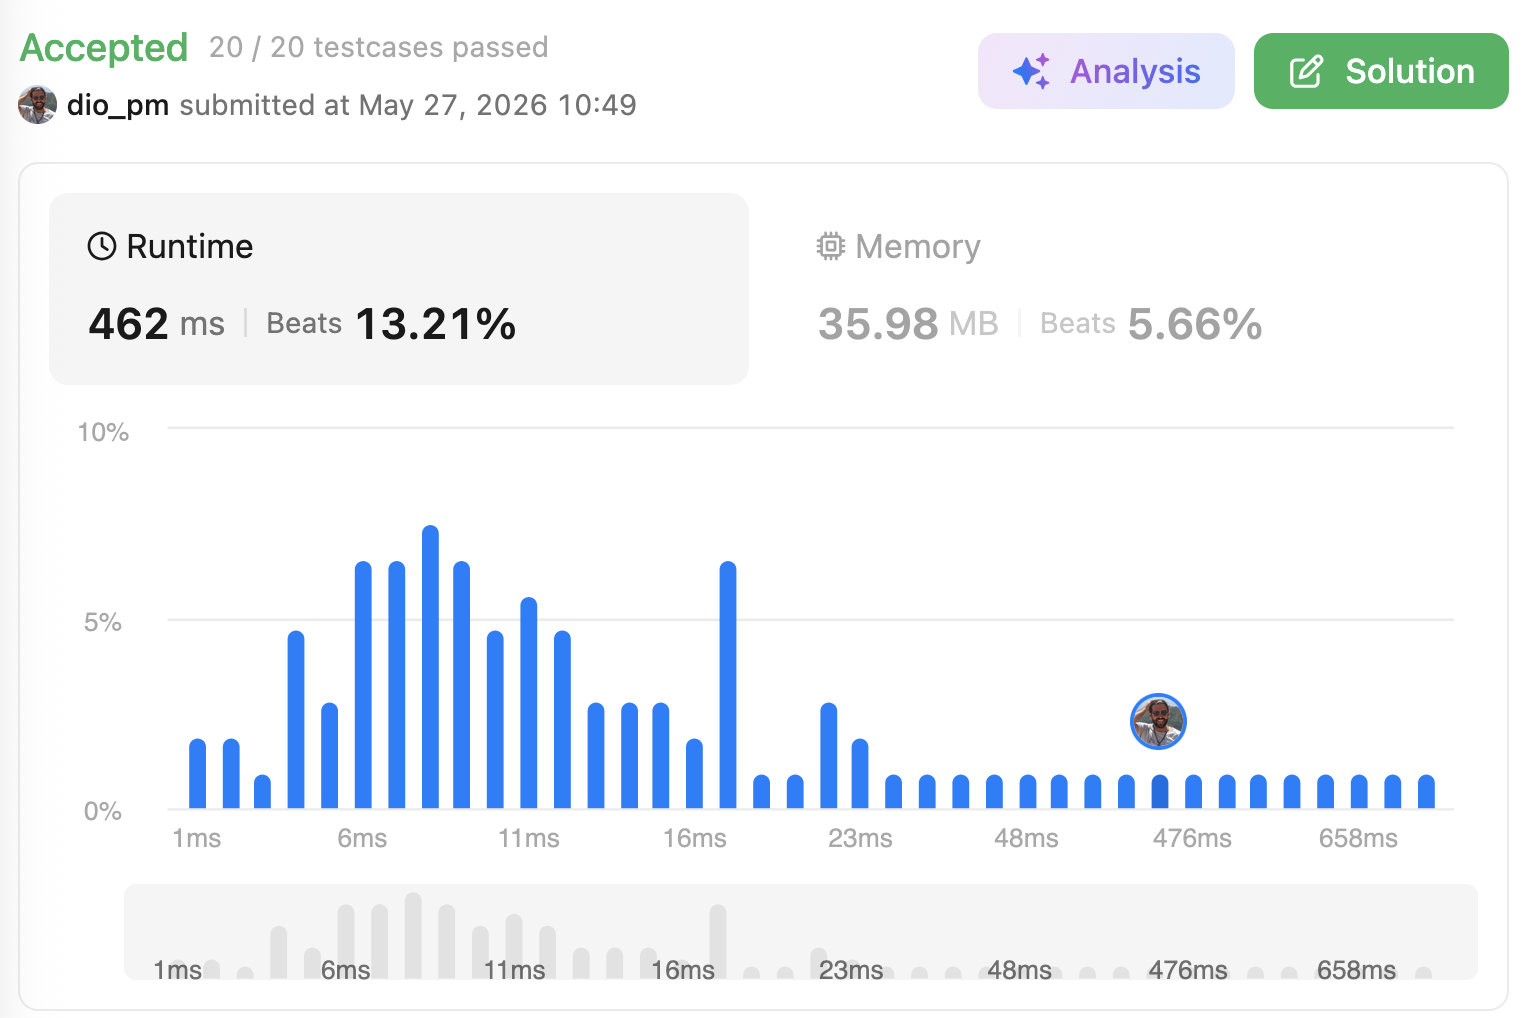
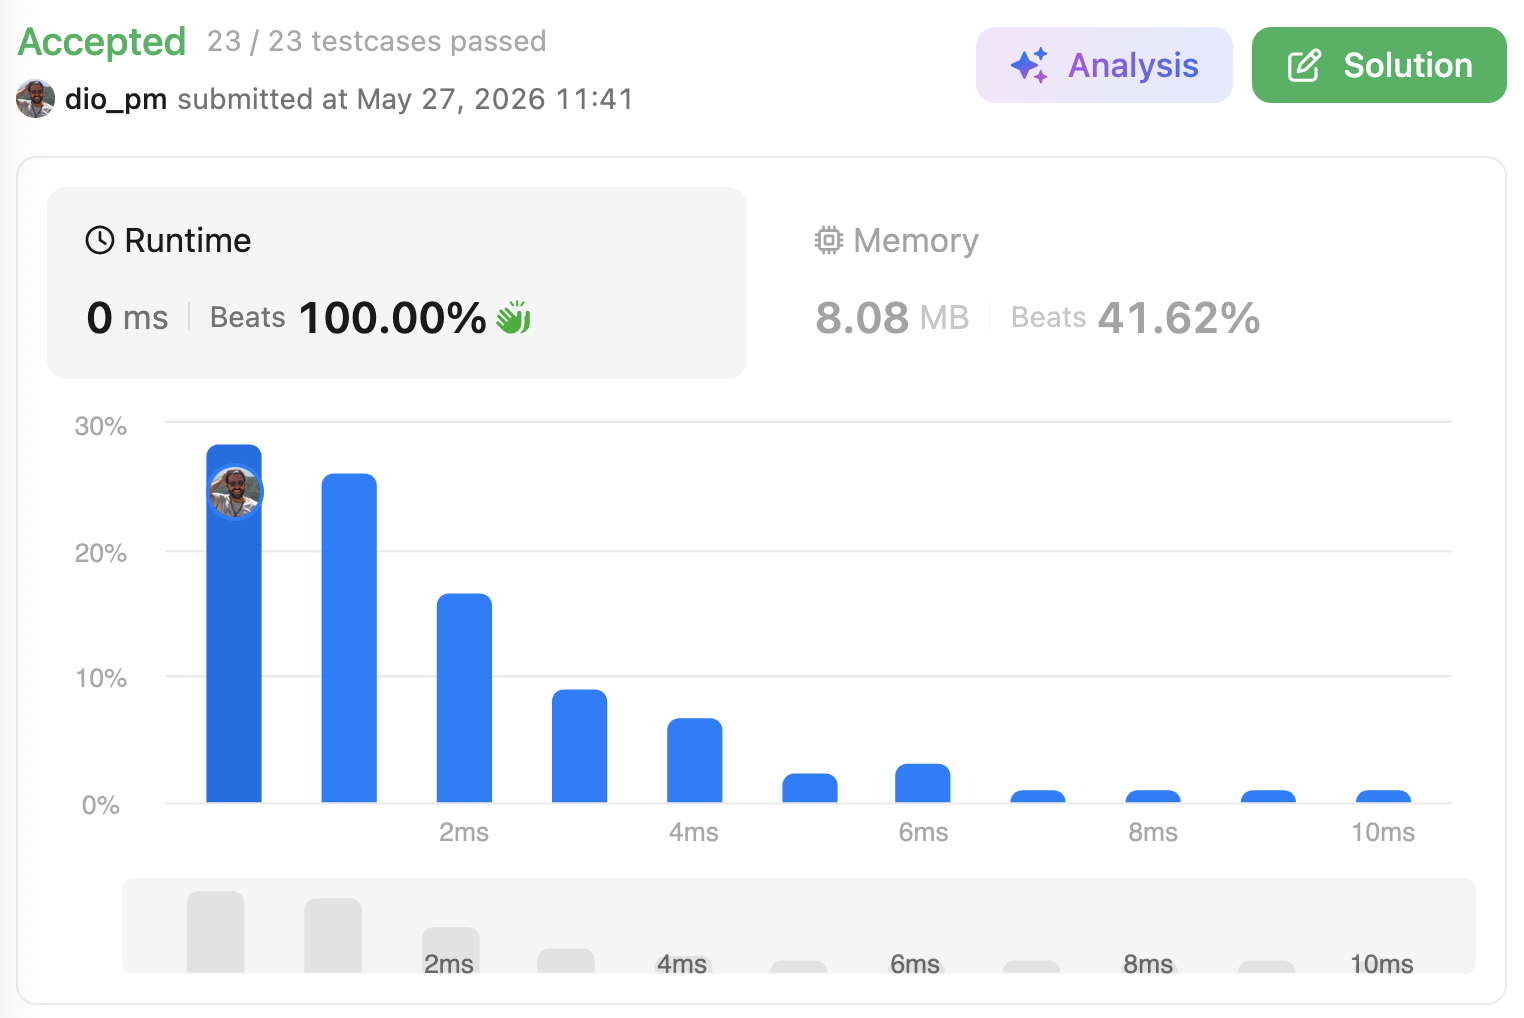
added solution

diff --git a/medium/0347-top-k-frequent-elements/go/solution.go b/medium/0347-top-k-frequent-elements/go/solution.go
@@ -2,7 +2,6 @@ package solution
 
 import (
 	"container/heap"
-	"log"
 )
 
 type Frequency struct {
@@ -26,7 +25,6 @@ func topKFrequent(nums []int, k int) []int {
 		})
 	}
 
-	log.Printf("%+v\n", counts)
 	res := []int{}
 	for range k {
 		el := heap.Pop(pq)

diff --git a/medium/0347-top-k-frequent-elements/README.md b/medium/0347-top-k-frequent-elements/README.md
@@ -1,0 +1,36 @@
+347. Top K Frequent Elements
+
+Given an integer array nums and an integer k, return the k most frequent elements. You may return the answer in any order.
+
+ 
+
+Example 1:
+
+Input: nums = [1,1,1,2,2,3], k = 2
+
+Output: [1,2]
+
+Example 2:
+
+Input: nums = [1], k = 1
+
+Output: [1]
+
+Example 3:
+
+Input: nums = [1,2,1,2,1,2,3,1,3,2], k = 2
+
+Output: [1,2]
+
+ 
+
+Constraints:
+
+    1 <= nums.length <= 105
+    -104 <= nums[i] <= 104
+    k is in the range [1, the number of unique elements in the array].
+    It is guaranteed that the answer is unique.
+
+ 
+
+Follow up: Your algorithm's time complexity must be better than O(n log n), where n is the array's size